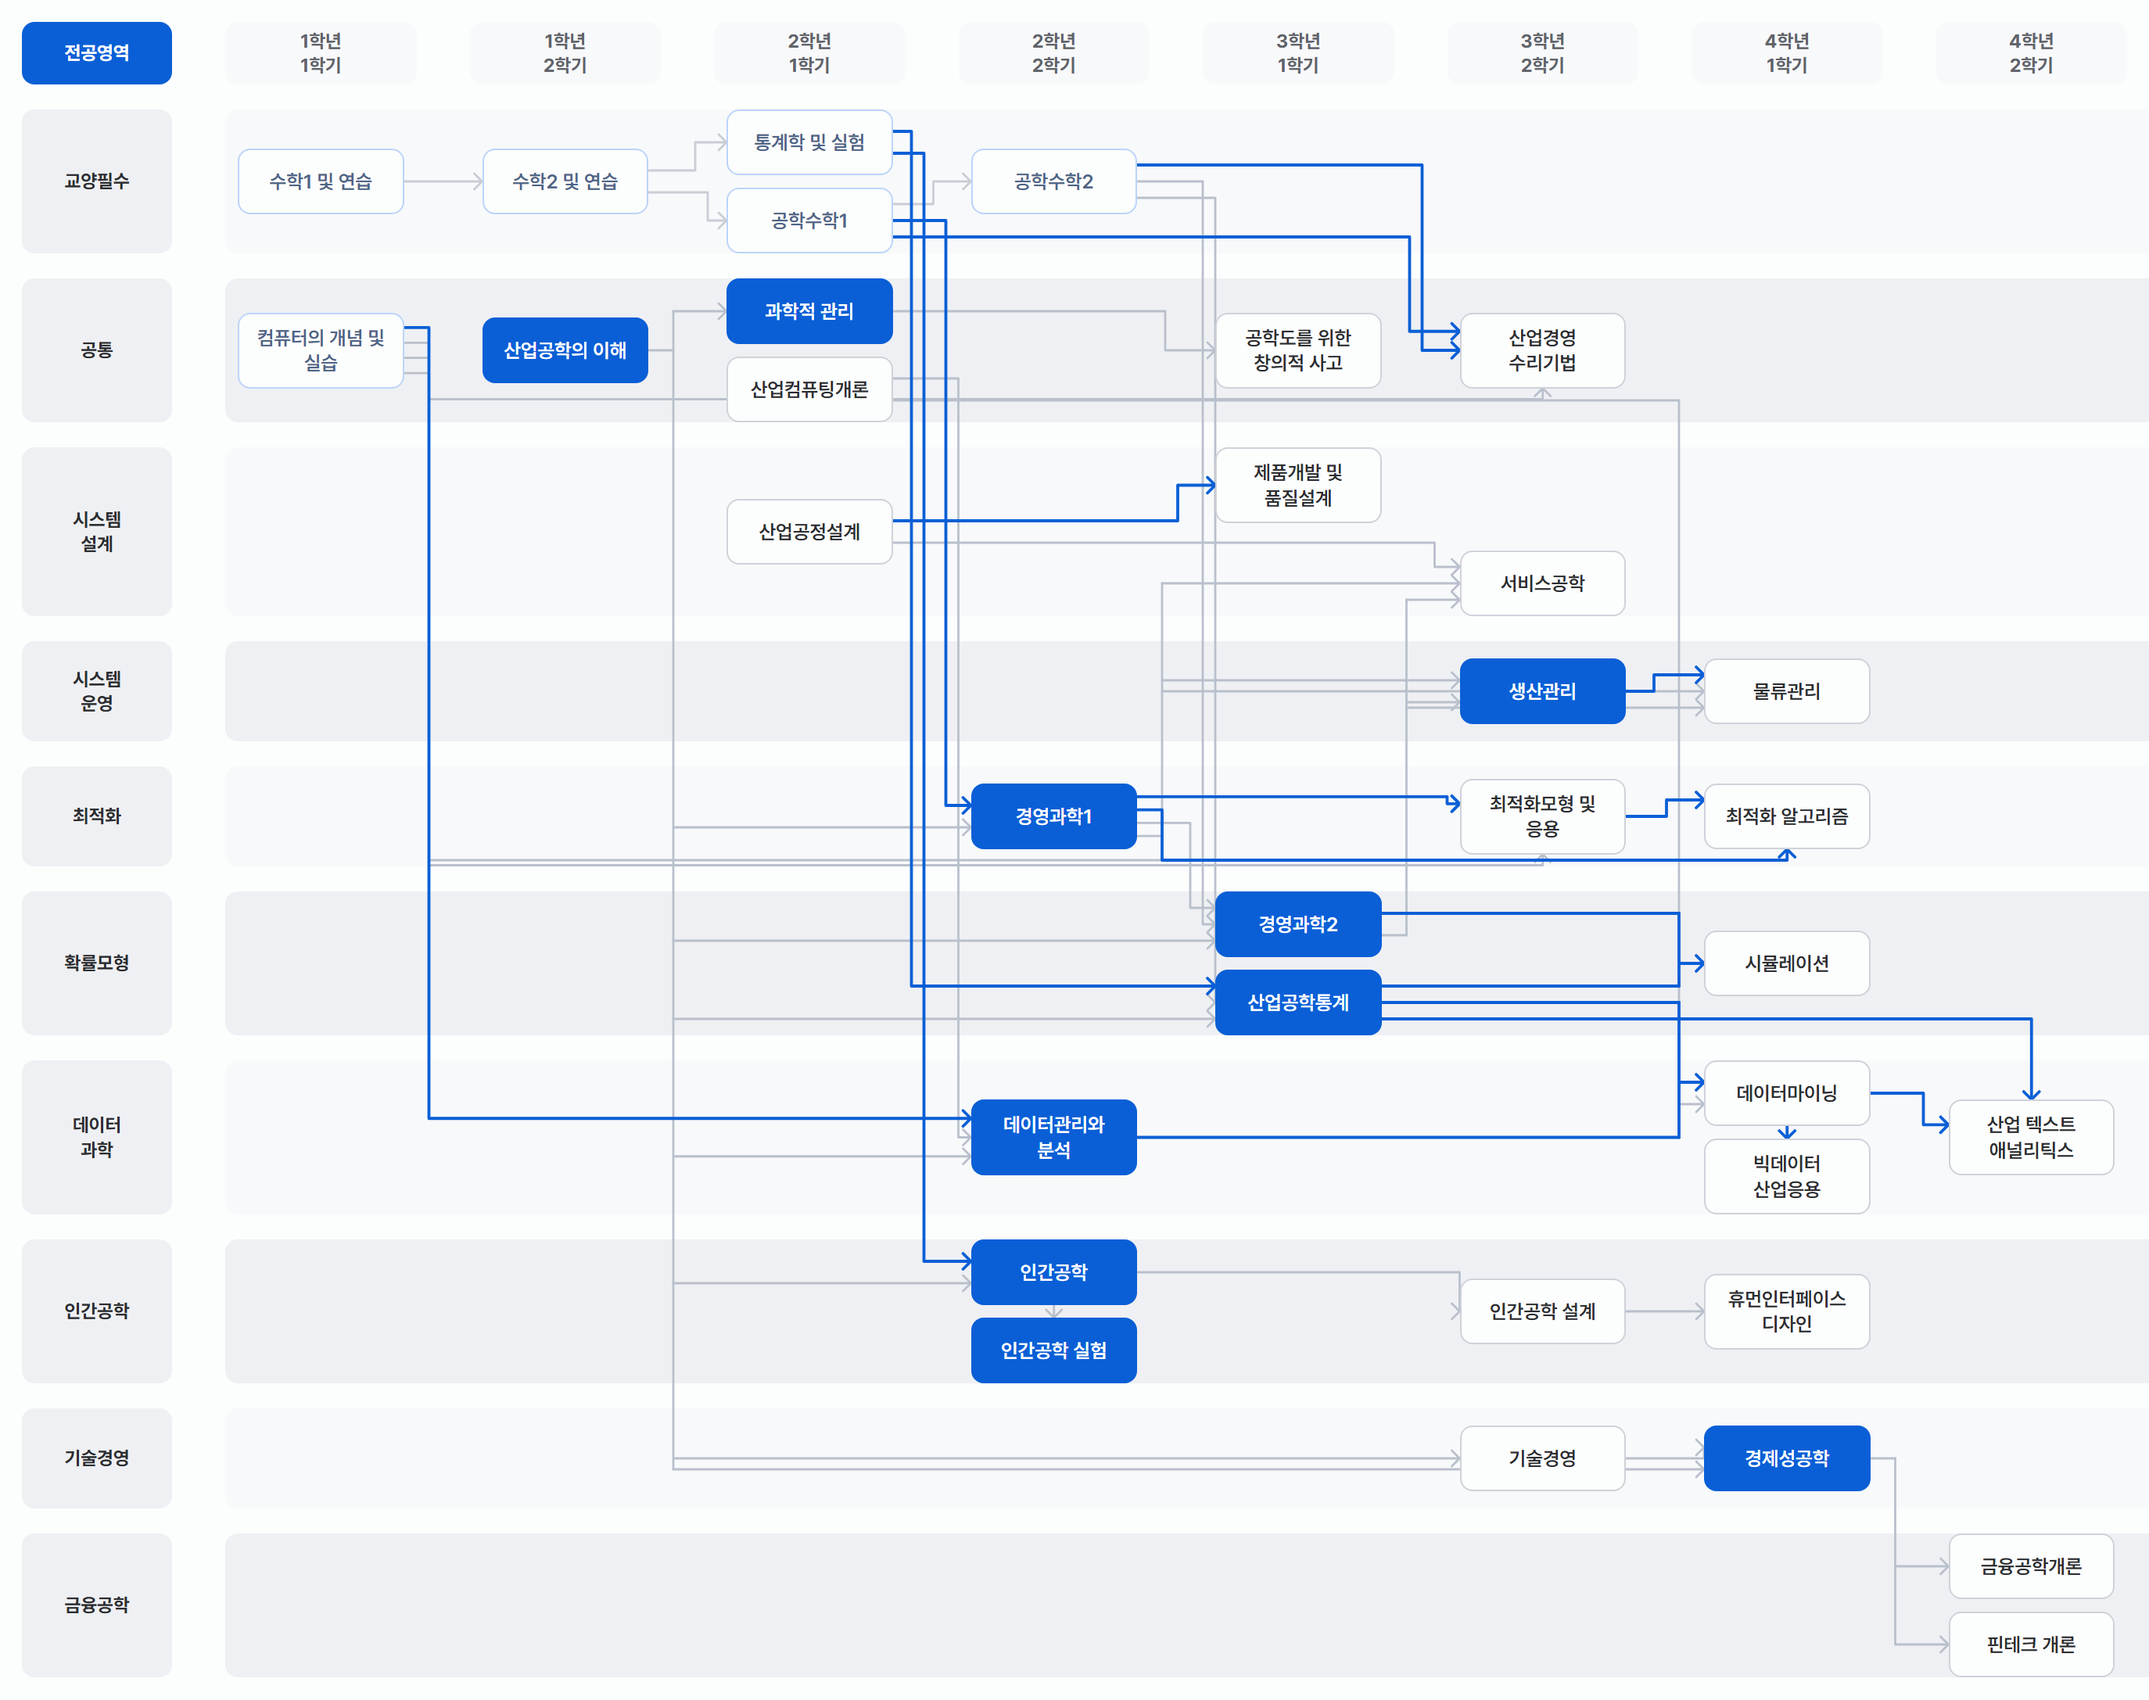
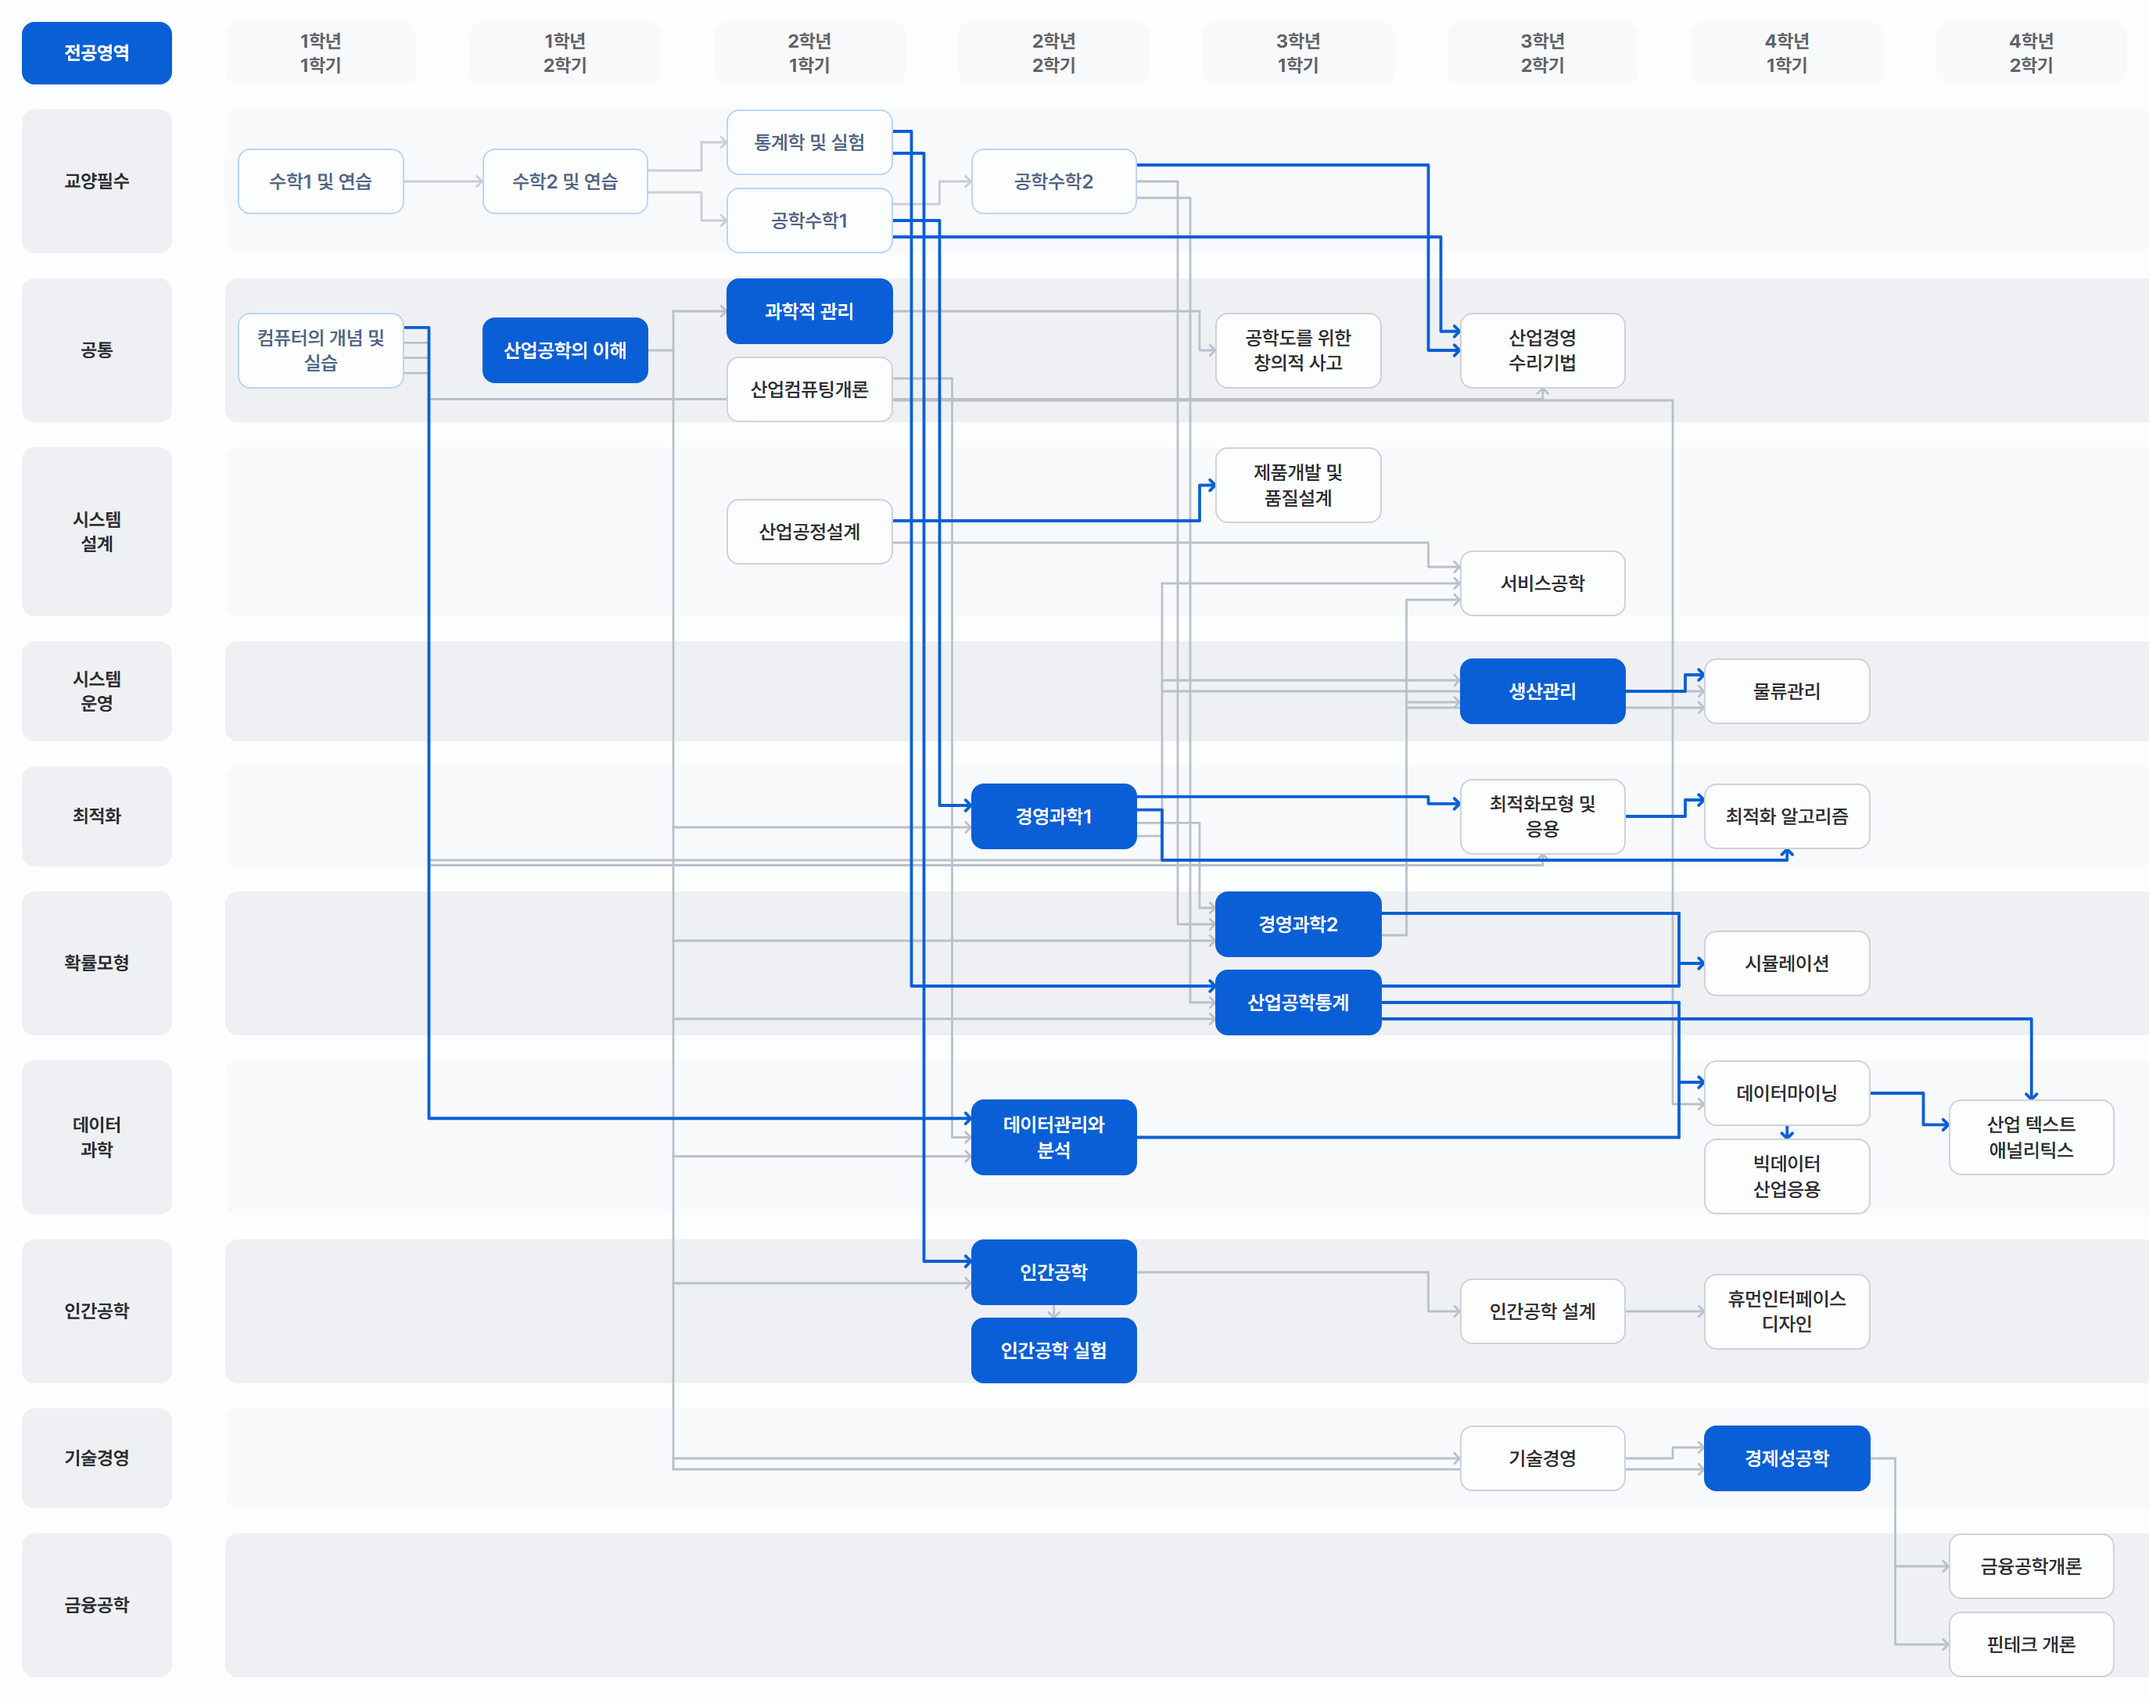
Fix roadmap connector arrows and shrink arrowheads
- Lane separation now only offsets vertical segments whose y-ranges actually
  overlap (interval-based), so arrows to same-column boxes no longer get pushed
  onto the box edge; add a stub clamp so every rightward arrow keeps a short
  horizontal lead-in (fixes 기술경영→경제성공학 looking disconnected)
- Smaller arrowheads (5 → 3.4)
- Regenerate static roadmap images

diff --git a/roadmap.html b/roadmap.html
@@ -1139,7 +1139,7 @@ function drawConnectors(){
     const p=document.createElementNS(SVG_NS,"path");p.setAttribute("d",d);p.setAttribute("fill","none");
     p.setAttribute("stroke",col(t));p.setAttribute("stroke-width",W(t));
     p.setAttribute("stroke-linecap","round");p.setAttribute("stroke-linejoin","round");svg.appendChild(p);};
-  const arrow=(x,y,dir,t)=>{const s=5;let d;
+  const arrow=(x,y,dir,t)=>{const s=3.4;let d;
     if(dir==="d")d=`M ${x-s} ${y-s} L ${x} ${y} L ${x+s} ${y-s}`;
     else if(dir==="u")d=`M ${x-s} ${y+s} L ${x} ${y} L ${x+s} ${y+s}`;
     else d=`M ${x-s} ${y-s} L ${x} ${y} L ${x-s} ${y+s}`;
@@ -1160,22 +1160,29 @@ function drawConnectors(){
   const exY=(id,idx,p)=>{const f=exitF[idx+"|"+id]; return f==null?p.cy:p.top+(p.bottom-p.top)*f;};
   const enY=(id,idx,p)=>{const f=entryF[idx+"|"+id]; return f==null?p.cy:p.top+(p.bottom-p.top)*f;};
 
-  /* 세로선 레인 분리 — 같은 세로 통로에 겹치는 link 세로구간을 도달 위치 순으로 좌우로 벌려 구별되게 한다 */
+  /* 세로선 레인 분리 — 같은 세로 통로에서 y구간이 '실제로 겹치는' link 세로구간만 좌우로 벌린다.
+     (같은 열의 다른 행처럼 안 겹치는 선은 벌리지 않아, 화살표가 박스 경계까지 밀리지 않는다) */
   const LANE_GAP=8, laneMidX={}, vbuckets={};
   specs.forEach((sp,idx)=>{
     if(sp.k!=="link"||sp.enter==="top"||sp.route==="under")return;
     const s=P(sp.from),e=P(sp.to);if(!s||!e)return;
     const base=(e.left>s.right)?((sp.mid==="src")?s.right+OFF:e.left-OFF):(s.right+OFF);
-    const y2=Math.max(exY(sp.from,idx,s),enY(sp.to,idx,e));
+    const a=exY(sp.from,idx,s),b=enY(sp.to,idx,e);
     const key=Math.round(base/16);
-    (vbuckets[key]=vbuckets[key]||[]).push({idx,base,y2});
+    (vbuckets[key]=vbuckets[key]||[]).push({idx,base,y1:Math.min(a,b),y2:Math.max(a,b)});
   });
   Object.keys(vbuckets).forEach(k=>{
     const L=vbuckets[k];
     if(L.length<2){laneMidX[L[0].idx]=L[0].base;return;}
-    L.sort((a,b)=>a.y2-b.y2);
-    const n=L.length;
-    L.forEach((it,i)=>{laneMidX[it.idx]=it.base+(i-(n-1)/2)*LANE_GAP;});
+    /* 구간 그래프 레인 배정: y구간이 겹치면 다른 레인, 안 겹치면 레인 재사용 */
+    L.sort((a,b)=>a.y1-b.y1);
+    const laneEnd=[];
+    L.forEach(it=>{let lane=-1;
+      for(let j=0;j<laneEnd.length;j++){if(laneEnd[j]<=it.y1){lane=j;break;}}
+      if(lane<0)lane=laneEnd.length;
+      laneEnd[lane]=it.y2; it.lane=lane;});
+    const nL=laneEnd.length;
+    L.forEach(it=>{laneMidX[it.idx]=it.base+(it.lane-(nL-1)/2)*LANE_GAP;});
   });
 
   const link=(idx,a,b,t,opt)=>{opt=opt||{};const s=P(a),e=P(b);if(!s||!e)return;
@@ -1188,6 +1195,8 @@ function drawConnectors(){
     if(laneMidX[idx]!=null){ midX=laneMidX[idx]; }
     else if(e.left>s.right){ midX = (opt.mid==="src") ? s.right+OFF : e.left-OFF; }
     else { midX = s.right+OFF; }
+    /* 오른쪽으로 가는 선은 화살표 앞에 최소 가로 여백을 남긴다 (세로선이 화살촉에 바로 붙지 않게) */
+    if(e.left>s.right) midX=Math.max(s.right+6,Math.min(midX,e.left-10));
     add(`M ${s.right} ${sy} H ${midX} V ${ey} H ${e.left}`,t);arrow(e.left,ey,"r",t);};
   const branch=(idx,a,bs,t)=>{const s=P(a);if(!s)return;const es=bs.map(P);if(es.some(x=>!x))return;
     const sy=exY(a,idx,s),tx=s.right+OFF;const eys=bs.map((b,i)=>enY(b,idx,es[i]));
